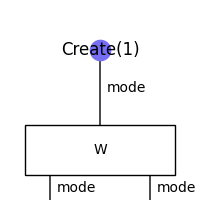
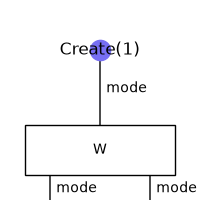
unroll takes only a number of steps: boundaries belong to feedback
Claude-Session: https://claude.ai/code/session_01HrEydKn7pNo7KEz28ZQyaM

diff --git a/optyx/core/diagram.py b/optyx/core/diagram.py
@@ -337,15 +337,40 @@ class Diagram(frobenius.Diagram):
                 :meth:`Feedback.default_effect`, the identity on `mem` here
                 and :class:`optyx.channel.Discard` for a channel diagram.
 
+        The boundaries are set here and nowhere else: :meth:`unroll` takes a
+        number of steps and reads them off the loop, so this is where a
+        caller decides what the memory starts and ends as.
+
         >>> wait = Diagram.swap(mode, mode).feedback()
         >>> assert wait.dom == wait.cod == mode
         >>> assert wait.mem == mode
         >>> assert wait.state == wait.effect == Diagram.id(mode)
+
+        Left as the identity, the memory stays open, so unrolling puts it
+        at the end of the domain and of the codomain — two time steps of one
+        mode each, plus the memory:
+
+        >>> assert wait.unroll(1).dom == wait.unroll(1).cod == mode ** 3
+
+        Give it a state and an effect and unrolling plugs them, closing the
+        memory: the loop becomes a delay line emitting `Create(1)` first.
+
+        >>> from optyx.core.zw import Create, Select
+        >>> delay = Diagram.swap(mode, mode).feedback(
+        ...     state=Create(1), effect=Select(0))
+        >>> assert delay.unroll(1).dom == delay.unroll(1).cod == mode ** 2
+        >>> assert delay.state == Create(1) and delay.effect == Select(0)
+
+        To unroll the same loop against other boundaries, rebuild it with
+        :meth:`with_boundaries` rather than passing them to :meth:`unroll`:
+
+        >>> assert delay.with_boundaries(state=None, effect=None).unroll(1) \\
+        ...     == wait.unroll(1)
         """
         return self.feedback_factory(
             self, dom=dom, cod=cod, mem=mem, state=state, effect=effect)
 
-    def unroll(self, n_steps: int = 1, state=..., effect=...) -> Diagram:
+    def unroll(self, n_steps: int = 1) -> Diagram:
         """
         Unroll the feedback loops of a diagram `n_steps` times, by
         interpreting it as a :class:`discopy.stream.Stream`: every box maps
@@ -358,17 +383,15 @@ class Diagram(frobenius.Diagram):
 
         Each loop's :attr:`Feedback.state` is plugged in its input memory
         before the first time step and its :attr:`Feedback.effect` in its
-        output memory after the last one.
+        output memory after the last one. Both are fixed by :meth:`feedback`,
+        so the number of steps is the only parameter here; to unroll against
+        other boundaries, rebuild the loops with :meth:`with_boundaries`
+        first. A loop whose boundary is the identity on its memory keeps
+        that memory open, at the end of the domain and of the codomain.
 
         Parameters:
             n_steps : The number of unrollings, one fewer than the number of
                 time steps.
-            state : Overrides the boundary plugged in the input memory, over
-                the whole memory rather than one loop at a time. `None`
-                leaves that memory open, at the end of the domain; the
-                default uses each loop's own :attr:`Feedback.state`.
-            effect : Overrides the boundary plugged in the output memory the
-                same way. `None` leaves it open, at the end of the codomain.
 
         A feedback loop over a swap acts as a delay line: it outputs its
         `state` at the first time step, then its previous input.
@@ -382,11 +405,6 @@ class Diagram(frobenius.Diagram):
         ...     ).to_tensor().eval().array
         >>> assert np.isclose(amplitude, 1)
 
-        Overriding with `None` opens the memory again, so the domain and
-        codomain each grow by the memory of the loop:
-
-        >>> open_wires = wait.unroll(1, state=None, effect=None)
-        >>> assert open_wires.dom == open_wires.cod == mode ** 3
         """
         if n_steps < 0:
             raise ValueError("n_steps must be at least 0.")
@@ -413,11 +431,45 @@ class Diagram(frobenius.Diagram):
         initial, final = (self.id(type(mem)()).tensor(*(
             getattr(loop, attr) for loop in loops))
             for attr in ("state", "effect"))
-        if state is not ...:
-            initial = self.id(mem) if state is None else state
-        if effect is not ...:
-            final = self.id(mem) if effect is None else effect
         return self.id(dom) @ initial >> unrolled >> self.id(cod) @ final
+
+    def with_boundaries(self, state=..., effect=...) -> Diagram:
+        """
+        This diagram with every feedback loop rebuilt against these
+        boundaries, so that they are still only ever defined by
+        :meth:`feedback`.
+
+        Parameters:
+            state : Replaces the boundary plugged in each input memory.
+                `None` leaves that memory open, by making the boundary the
+                identity on it; the default `...` keeps each loop's own
+                :attr:`Feedback.state`.
+            effect : Replaces the boundary plugged in each output memory the
+                same way.
+
+        Opening both is what :meth:`one_step` does, and it grows the domain
+        and the codomain by the memory of the loop:
+
+        >>> from optyx.core.zw import Create, Select
+        >>> wait = Diagram.swap(mode, mode).feedback(
+        ...     state=Create(1), effect=Select(0))
+        >>> opened = wait.with_boundaries(state=None, effect=None).unroll(1)
+        >>> assert opened.dom == opened.cod == mode ** 3
+        """
+        def ar_map(box):
+            if not isinstance(box, self.feedback_factory):
+                return box
+            opened = box.arg.id(box.mem)
+            return box.arg.with_boundaries(state, effect).feedback(
+                dom=box.dom, cod=box.cod, mem=box.mem,
+                state=box.state if state is ... else (
+                    opened if state is None else state),
+                effect=box.effect if effect is ... else (
+                    opened if effect is None else effect))
+
+        return frobenius.Functor(
+            ob_map=lambda x: x, ar_map=ar_map,
+            dom=self.factory, cod=self.factory)(self)
 
     def one_step(self) -> Diagram:
         """
@@ -425,9 +477,9 @@ class Diagram(frobenius.Diagram):
         `dom @ mem` to `cod @ mem`, with no :class:`Feedback` box left and
         the memory at the boundary.
 
-        It is `unroll(0, state=None, effect=None)`: zero unrollings is one
-        time step, and opening both boundaries leaves the memory on the
-        wires rather than plugging it.
+        It is `with_boundaries(state=None, effect=None).unroll(0)`: zero
+        unrollings is one time step, and a loop with no boundaries keeps its
+        memory on the wires rather than plugging it.
 
         >>> step = Diagram.swap(mode, mode)
         >>> wait = step.feedback()
@@ -436,7 +488,7 @@ class Diagram(frobenius.Diagram):
         >>> assert wait.feedback_factory(step, state=Create(1)).one_step()\\
         ...     == step
         """
-        return self.unroll(0, state=None, effect=None)
+        return self.with_boundaries(state=None, effect=None).unroll(0)
 
     # pylint: disable=too-many-locals
     def to_tensor(

diff --git a/test/test_feedback.py b/test/test_feedback.py
@@ -80,13 +80,17 @@ def test_unroll_is_a_delay_line():
     assert np.isclose(probability, 1)
 
 
-def test_unroll_overrides_the_boundary():
-    """`None` opens a memory the loop closes, and a diagram replaces it."""
+def test_with_boundaries_rebuilds_the_loop():
+    """`unroll` takes only the number of steps: the boundaries belong to
+    `feedback`, and `with_boundaries` rebuilds the loops by calling it
+    again. `None` opens a memory the loop closes, a diagram replaces it."""
     wait = delay(state=photonic.Create(1))
+    with pytest.raises(TypeError):
+        wait.unroll(1, state=None)
     assert wait.unroll(1).dom == qmode ** 2
-    assert wait.unroll(1, state=None).dom == qmode ** 3
-    assert wait.unroll(1, effect=None).cod == qmode ** 3
-    replaced = wait.unroll(1, state=photonic.Create(0))
+    assert wait.with_boundaries(state=None).unroll(1).dom == qmode ** 3
+    assert wait.with_boundaries(effect=None).unroll(1).cod == qmode ** 3
+    replaced = wait.with_boundaries(state=photonic.Create(0)).unroll(1)
     assert replaced.dom == qmode ** 2
     assert replaced != wait.unroll(1)
 

diff --git a/optyx/channel.py b/optyx/channel.py
@@ -252,6 +252,7 @@ class Diagram(frobenius.Diagram):
     grad = tensor.Diagram.grad
     unroll = diagram.Diagram.unroll
     one_step = diagram.Diagram.one_step
+    with_boundaries = diagram.Diagram.with_boundaries
 
     def feedback(self, dom=None, cod=None, mem=None,
                  state=None, effect=None) -> Diagram:
